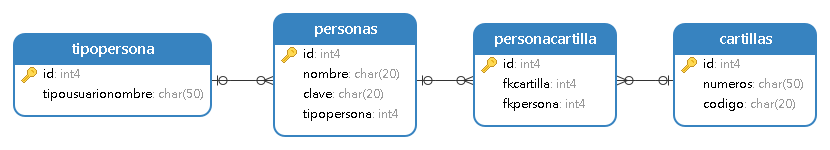
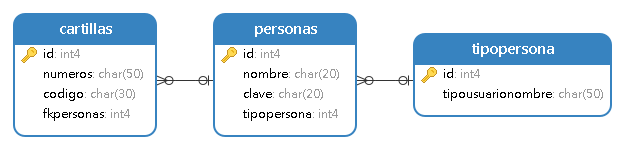
Modelo#tablas

Changed region(s): [[0.304, 0.08, 1.0, 0.9333], [0.0, 0.08, 0.2736, 0.9333]]

diff --git a/webServer/src/controllers/index.controller.js b/webServer/src/controllers/index.controller.js
@@ -41,12 +41,12 @@ const cartilla= async(req,res)=>{
  };
  //tabla cartillas Create
  const createCartilla=async(req,res)=>{
- const {numeros,codigo}=req.body;
- const response = await pool.query('INSERT INTO cartillas(numeros,codigo) VALUES($1,$2)',[numeros,codigo]);
+ const {numeros,codigo,fkpersonas}=req.body;
+ const response = await pool.query('INSERT INTO cartillas(numeros,codigo,fkpersonas) VALUES($1,$2,$3)',[numeros,codigo,fkpersonas]);
  res.json({
      massage:'cartilla creado',
      body:{
-         user:{numeros,codigo}
+         user:{numeros,codigo,fkpersonas}
      }
     })
  };
